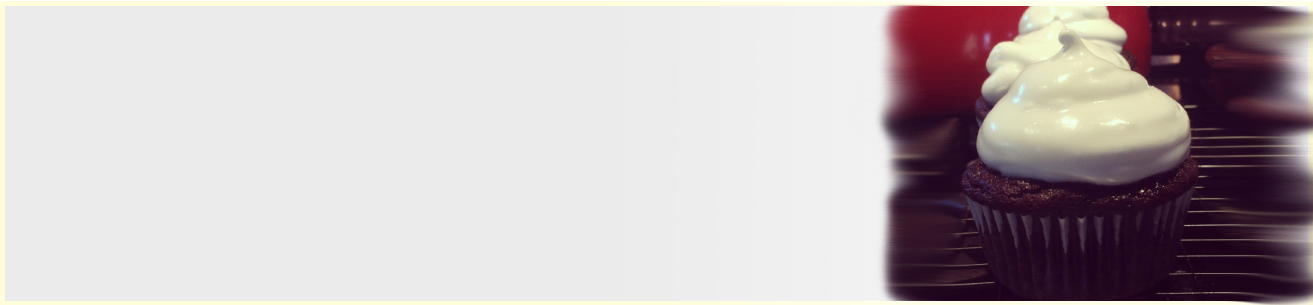
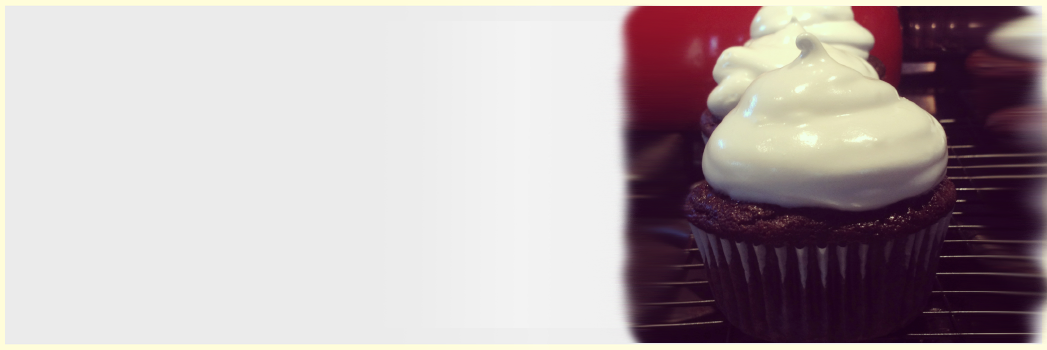
finished images, attempting text on images

Changed region(s): [[0.0, 0.0, 1.0, 1.0], [0.7335, 0.8557, 0.7641, 0.8852]]

diff --git a/other_creations.html b/other_creations.html
@@ -1,0 +1,87 @@
+<!DOCTYPE html>
+<html>
+<head>
+<!--Start of web page information-->
+	<title>Kelly's Baking - Cupcakes</title>
+	<meta name="description"
+		content="Kelly's Other Creations"/>
+	<meta http-equiv="author"
+		content="Kelly Donahoe"/>
+	<meta name="keywords"
+		content="baking, waffle, macaron, pie, Kelly, Donahoe"/>
+<!--End of web page information-->
+
+<link href="stylesheet.css" type="text/css" rel="stylesheet"/>
+
+</head>
+
+
+
+<body>
+
+<div id="banner">
+	<div id="banner-content">
+		<a href="index.html">Kelly's Baking</a>
+		<a href="index.html"><img src="images/logo.png"></a>
+	</div>
+</div>
+
+<!--Navigation Bar-->
+
+<ul id="nav-subpages">
+	<li><a href="cupcakes.html">Cupcakes</a></li>
+	<li><a href="cakes.html">Cakes</a></li>
+	<li><a href="breakfast_pasteries.html">Breakfast Pasteries<a/></li>
+	<li class="active"><a href="other_creations.html">Other Creations</a></li>
+</ul>
+<!-- End navigation bar -->
+
+<!-- POST 1 -->
+<div class="container1">
+	<img src="images/waffle.png"/>	
+	<h3>Gingerbread Holiday Waffles</h3>
+	<p class="text">A gingerbread waffle topped with whipped cream, homemade chocolate sauce, and banana slices.</p>
+</div>
+
+<!-- POST 2 -->
+<div class="container">
+	<img src="images/bread.png"/>
+</div>
+
+<!-- POST 3 -->
+<div class="container">
+	<img src="images/biscotti.png"/>
+</div>
+
+<!-- POST 4 -->
+<div class="container">
+	<img src="images/pie.png"/>
+</div>
+
+<!-- POST 5 -->
+<div class="container">
+	<img src="images/macaron.png"/>
+</div>
+ 
+<!-- POST 6 -->
+<div class="container">
+	<img src="images/souffle.png"/>
+</div>
+
+<!-- POST 7 -->
+<div class="container">
+	<img src="images/chocolate_macaron.png"/>
+</div>
+
+<!-- POST 8 -->
+<div class="container8">
+	<img src="images/4th_of_july.png"/>
+</div>
+
+
+
+
+
+</body>
+
+</html>

diff --git a/stylesheet.css b/stylesheet.css
@@ -240,14 +240,33 @@ div#banner-content a:visited {
 } 
 
  #post1 img {
- 	/*float: left;*/
+ 	position: relative;
  	padding-top: 10px;
  	width:100%;
  	height:100%;
  }
 
+ #post1 h3 {
+ 	font-family: "american typewriter";
+ 	font-size: 30px;
+ 	font-style: bold;
+ 	position: absolute;
+ 	top: 18%;
+ 	right: 14%;
+ 	color: rgb(84,217,217);
+ }
+
+ #post1 p {
+ 	font-family: "rockwell";
+ 	font-size: 20px;
+ 	position: absolute;
+ 	top: 27%;
+ 	right: 4%;
+ 	width: 35%;
+ 	color: rgb(39,39,39);
+ }
+
  #post2 img {
- 	/*float: right;*/
  	padding-top: 60px;
  	width:100%;
  	height:100%;
@@ -255,77 +274,66 @@ div#banner-content a:visited {
  }
 
 #post3 img {
- 	/*float: left;*/
  	padding-top: 60px;
  	width:100%;
  	height:100%;
  }
 
 #post4 img {
- 	float: right;
  	padding-top: 60px;
  	width:100%;
  	height:100%;
  }
 
 #post5 img {
- 	float: left;
  	padding-top: 60px;
  	width:100%;
  	height:100%;
  }
 
 #post6 img {
- 	float: right;
  	padding-top: 60px;
  	width:100%;
  	height:100%;
  }
 
 #post7 img {
- 	float: left;
  	padding-top: 60px;
  	width:100%;
  	height:100%;
  }
 
 #post8 img {
- 	float: right;
  	padding-top: 60px;
  	width:100%;
  	height:100%;
  }
 
 #post9 img {
- 	float: left;
  	padding-top: 60px;
  	width:100%;
  	height:100%;
  }
 
 #post10 img {
- 	float: right;
  	padding-top: 60px;
  	width:100%;
  	height:100%;
  }
 
 #post11 img {
- 	float: left;
  	padding-top: 60px;
  	width:100%;
  	height:100%;
  }
 
 #post12 img {
- 	float: right;
  	padding-top: 60px;
  	width:100%;
  	height:100%;
  }
 
 #post13 img {
- 	float: left;
  	padding-top: 60px;
  	width:100%;
  	height:100%;

diff --git a/cupcakes.html b/cupcakes.html
@@ -38,12 +38,14 @@
 
 <!-- POST 1 -->
 <div id="post1">
-	<img src="images/starrynight_3.png"/>
+	<img src="images/starrynight.png"/>
+	<h3>Starry Night</h3>
+	<p>Had a free weekend and decided to paint with icing and attempt the Starry Night!</p>
 </div>
 
 <!-- POST 2 -->
 <div id="post2">
-	<img src="images/pie_cupcakes.png"/>
+	<img src="images/pie_cupcake.png"/>
 </div>
 
 <!-- POST 3 -->
@@ -68,7 +70,7 @@
 
 <!-- POST 7 -->
 <div id="post7">
-	<img src="images/smores_cupcakes.png"/>
+	<img src="images/smores_cupcake.png"/>
 </div>
 
 <!-- POST 8 -->

diff --git a/cakes.html b/cakes.html
@@ -4,7 +4,7 @@
 <!--Start of web page information-->
 	<title>Kelly's Baking - Cakes</title>
 	<meta name="description"
-		content="Kelly's Cupcakes"/>
+		content="Kelly's Cakes"/>
 	<meta http-equiv="author"
 		content="Kelly Donahoe"/>
 	<meta name="keywords"
@@ -96,8 +96,10 @@
 	<img src="images/winter_tree_cake.png"/>
 </div>
 
-
-
+<!-- POST 13 -->
+<div id="post13">
+	<img src="images/panda_cake.png"/>
+</div>
 
 
 

diff --git a/breakfast_pasteries.html b/breakfast_pasteries.html
@@ -4,7 +4,7 @@
 <!--Start of web page information-->
 	<title>Kelly's Baking - Breakfast Pasteries</title>
 	<meta name="description"
-		content="Kelly's Cupcakes"/>
+		content="Kelly's Breakfast Pasteries"/>
 	<meta http-equiv="author"
 		content="Kelly Donahoe"/>
 	<meta name="keywords"
